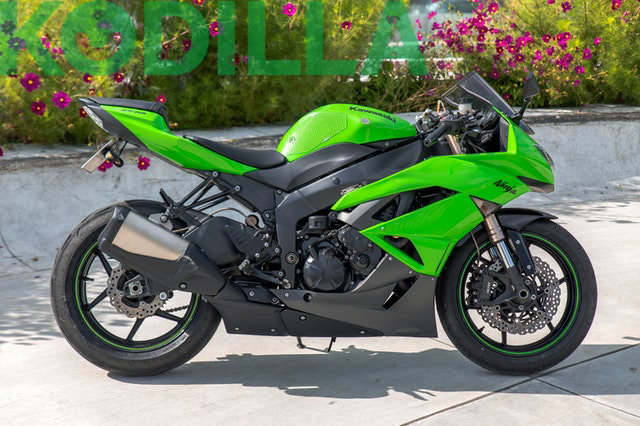
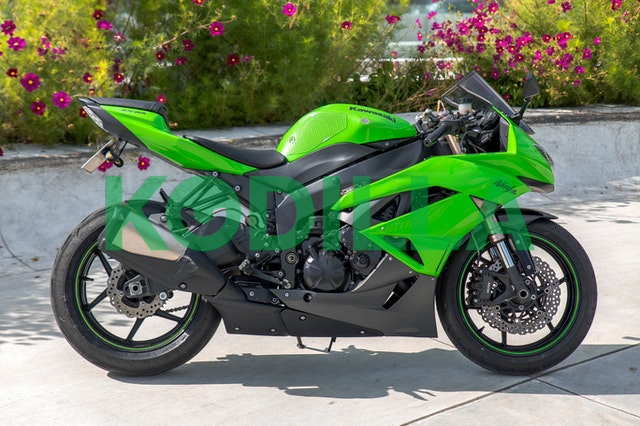
Positioning image watermark

Changed region(s): [[0.1562, 0.3967, 0.8438, 0.6103], [0.0, 0.0, 0.6875, 0.1831]]

diff --git a/app.js b/app.js
@@ -14,11 +14,13 @@ const addTextWatermarkToImage = async function (inputFile, outputFile, text) {
 
 addTextWatermarkToImage('./test.jpg', './test-with-watermark.jpg', 'Hello world')
 
-const addImageWatermarkToImage = async function(inputFile, outputFile, watermarkFile) {
+const addImageWatermarkToImage = async function (inputFile, outputFile, watermarkFile) {
   const image = await Jimp.read(inputFile);
   const watermark = await Jimp.read(watermarkFile);
+  const x = image.getWidth() / 2 - watermark.getWidth() / 2;
+  const y = image.getHeight() / 2 - watermark.getHeight() / 2;
 
-  image.composite(watermark, 0, 0, {
+  image.composite(watermark, x, y, {
     mode: Jimp.BLEND_SOURCE_OVER,
     opacitySource: 0.5,
   });
